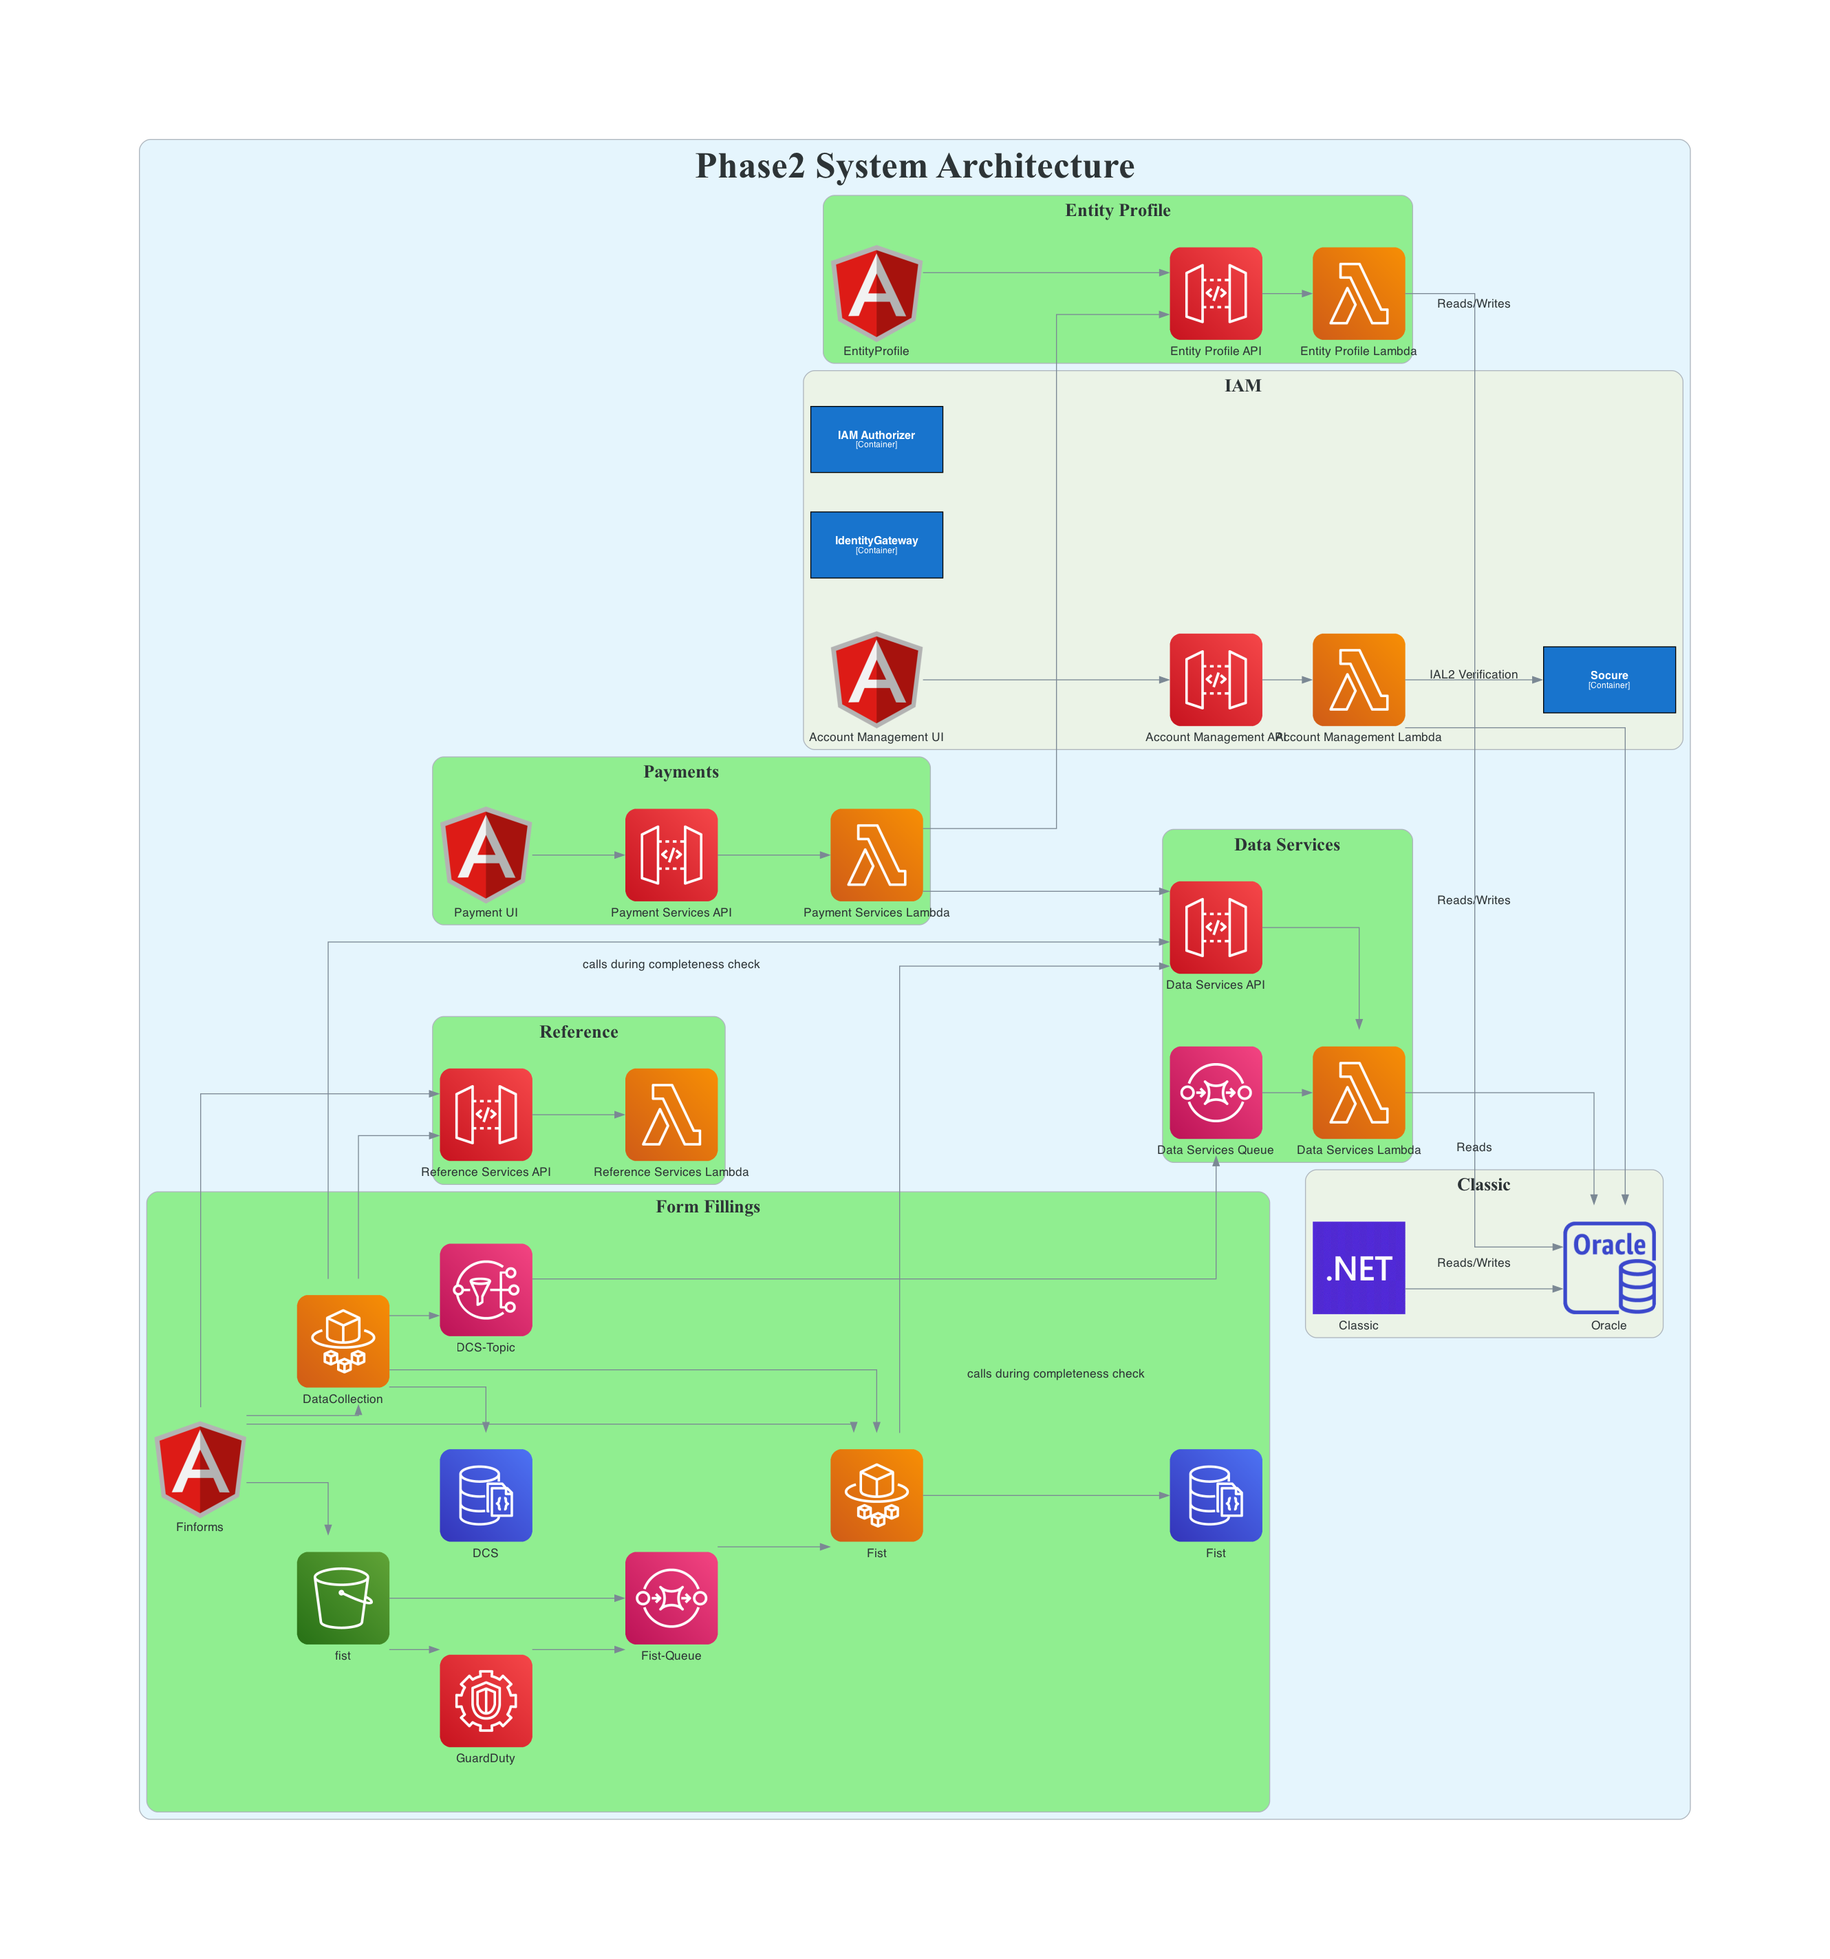
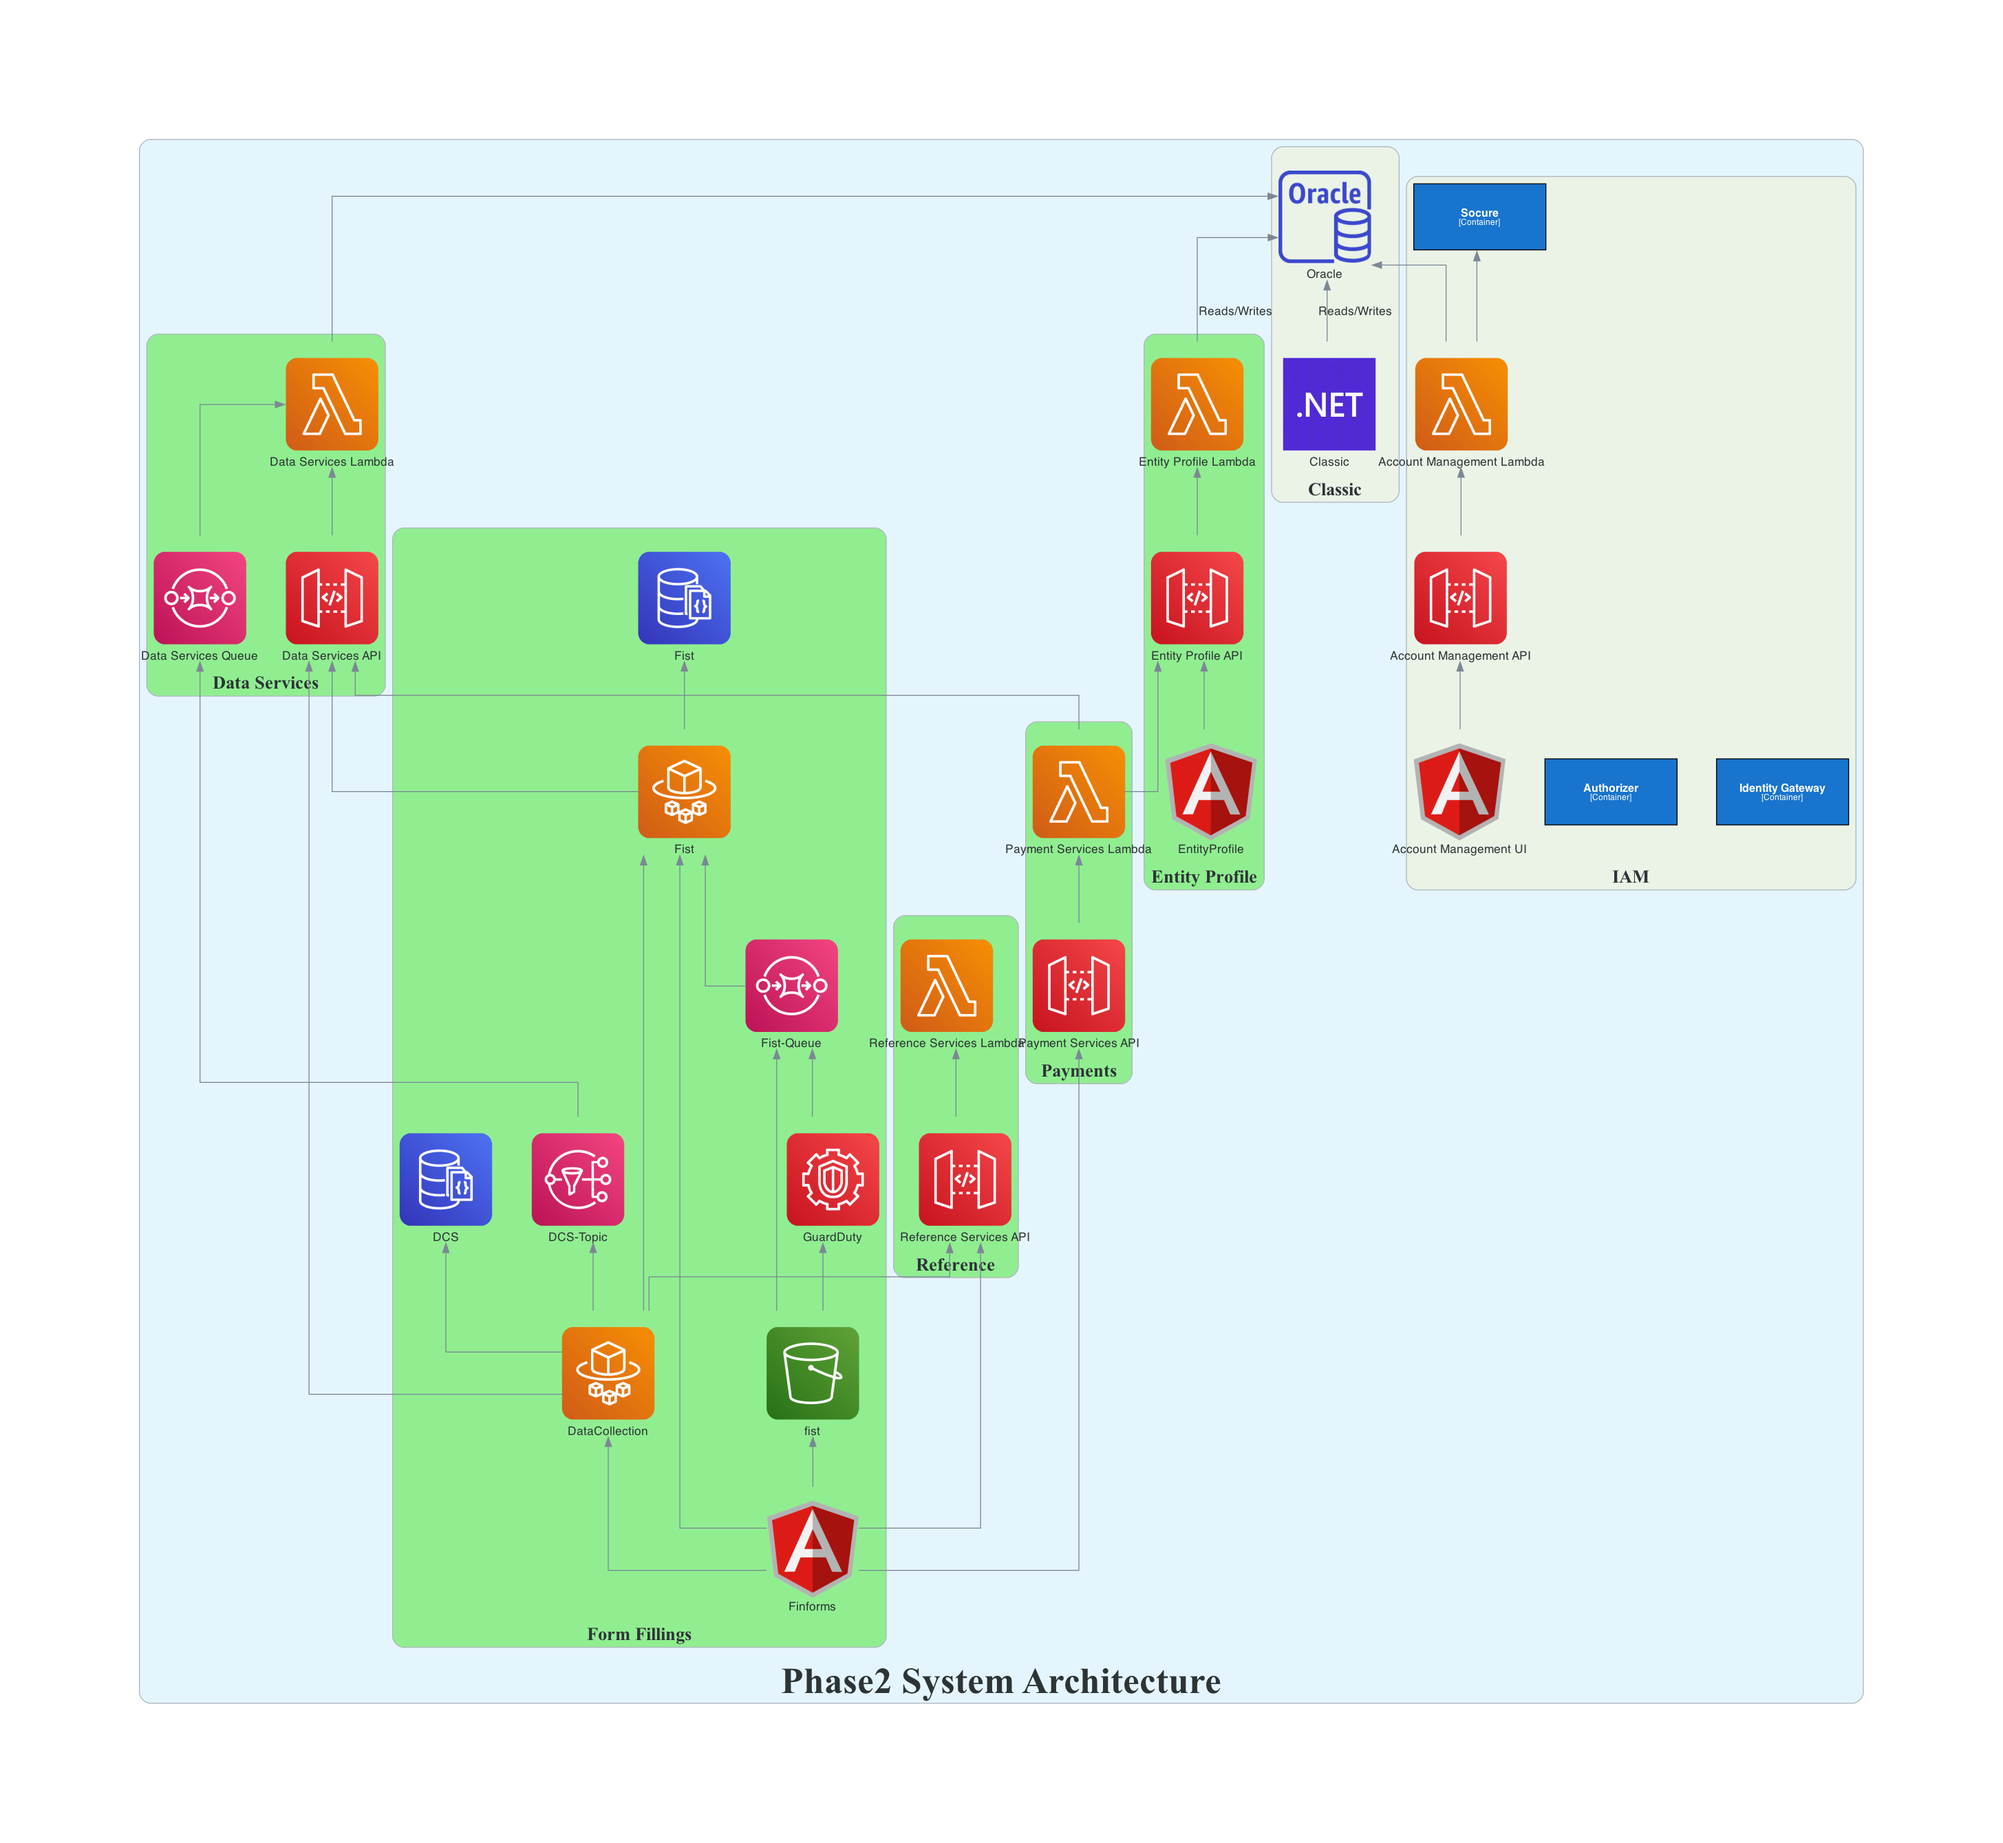
Add files via upload

diff --git a/assets/files/phase2.py b/assets/files/phase2.py
@@ -1,0 +1,108 @@
+from ast import Lambda
+from types import LambdaType
+from diagrams import Cluster, Diagram, Edge
+from diagrams.aws.integration import SNS, SQS
+from diagrams.aws.storage import SimpleStorageServiceS3,S3
+from diagrams.programming.framework import Angular, DotNet
+from diagrams.onprem.database import Oracle
+from diagrams.aws.database import DocumentDB
+from diagrams.programming.framework import Spring
+from diagrams.aws.security import Guardduty
+from diagrams.aws.compute import Lambda
+from diagrams.aws.compute import Fargate
+from diagrams.aws.database import RDSOracleInstance
+from diagrams.c4 import Person, Container, Database, System, SystemBoundary, Relationship
+from diagrams.aws.mobile import APIGateway
+from diagrams.onprem.monitoring import Splunk
+from diagrams.programming.language import Csharp, Java
+
+cluster_40_graph_attr = {
+    "labeljust": "100",
+    "fontsize": "40",
+    "fontname":"times-bold"
+}
+
+cluster_20_graph_attr = {
+    "labeljust": "100",
+    "fontsize": "20",
+    "fontname":"times-bold"
+}
+
+cluster_20_graph_attr_green_bg = {
+    "labeljust": "100",
+    "fontsize": "20",
+    "fontname":"times-bold",
+    "bgcolor": "#90EE90",
+}
+with Diagram(show=True, direction="BT"):
+    with Cluster("Phase2 System Architecture",graph_attr=cluster_40_graph_attr):
+
+        with Cluster("Classic",graph_attr=cluster_20_graph_attr):
+            classic = DotNet("Classic")
+            oracle =  RDSOracleInstance("Oracle")
+            classic >> Edge(label="Reads/Writes") >> oracle
+
+        with Cluster("Reference", graph_attr=cluster_20_graph_attr_green_bg):
+            referenceApi = APIGateway("Reference Services API")
+            referenceLambda = Lambda("Reference Services Lambda")
+
+        with Cluster("Form Fillings", graph_attr=cluster_20_graph_attr_green_bg):
+            finforms = Angular("Finforms")
+            dcs = Fargate("DataCollection")
+            dcsDocDb = DocumentDB("DCS")
+            fistDocDb = DocumentDB("Fist")
+            fist = Fargate("Fist")
+            fistS3 = S3("fist")
+            fistQueue = SQS("Fist-Queue")
+            dcsTopic = SNS("DCS-Topic")
+            guardDuty = Guardduty("GuardDuty")
+
+            finforms >> dcs >> dcsDocDb
+            finforms >>  fist >> fistDocDb
+            finforms >> fistS3 >> fistQueue
+            fistS3 >> guardDuty >> fistQueue
+            fistQueue >> fist
+            dcs >> dcsTopic
+            dcs >> fist
+            dcs >> referenceApi
+            finforms >> referenceApi >> referenceLambda
+
+        with Cluster("IAM", graph_attr=cluster_20_graph_attr):
+            iamUi = Angular("Account Management UI")
+            accountManagementApi = APIGateway("Account Management API")
+            accountManagementLambda = Lambda("Account Management Lambda")
+            socure = Container(name="Socure")
+            iamAuthorizer = Container(name="Authorizer")
+            idGateway = Container(name="Identity Gateway")
+
+            iamUi >> accountManagementApi >> accountManagementLambda >> oracle
+            accountManagementLambda >> socure
+
+
+        with Cluster("Entity Profile", graph_attr=cluster_20_graph_attr_green_bg):
+            entityProfileUi = Angular("EntityProfile")
+            entityProfileApi = APIGateway("Entity Profile API")
+            entityProfileLambda = Lambda("Entity Profile Lambda")
+
+            entityProfileUi >> entityProfileApi >> entityProfileLambda >> Edge(label="Reads/Writes") >> oracle
+
+
+        with Cluster("Data Services", graph_attr=cluster_20_graph_attr_green_bg):
+            dataServicesApi = APIGateway("Data Services API")
+            dataServicesLambda = Lambda("Data Services Lambda")
+            dataServicesQueue = SQS("Data Services Queue")
+
+            dataServicesApi >> dataServicesLambda >>  oracle
+            dcs >> dataServicesApi
+            fist >>  dataServicesApi
+            dataServicesQueue >> dataServicesLambda
+            dcsTopic >> dataServicesQueue
+
+        with Cluster("Payments", graph_attr=cluster_20_graph_attr_green_bg):
+            paymentApi = APIGateway("Payment Services API")
+            paymentLambda = Lambda("Payment Services Lambda")
+
+            paymentApi >> paymentLambda
+            paymentLambda >> dataServicesApi
+            paymentLambda >> entityProfileApi
+            finforms >> paymentApi
